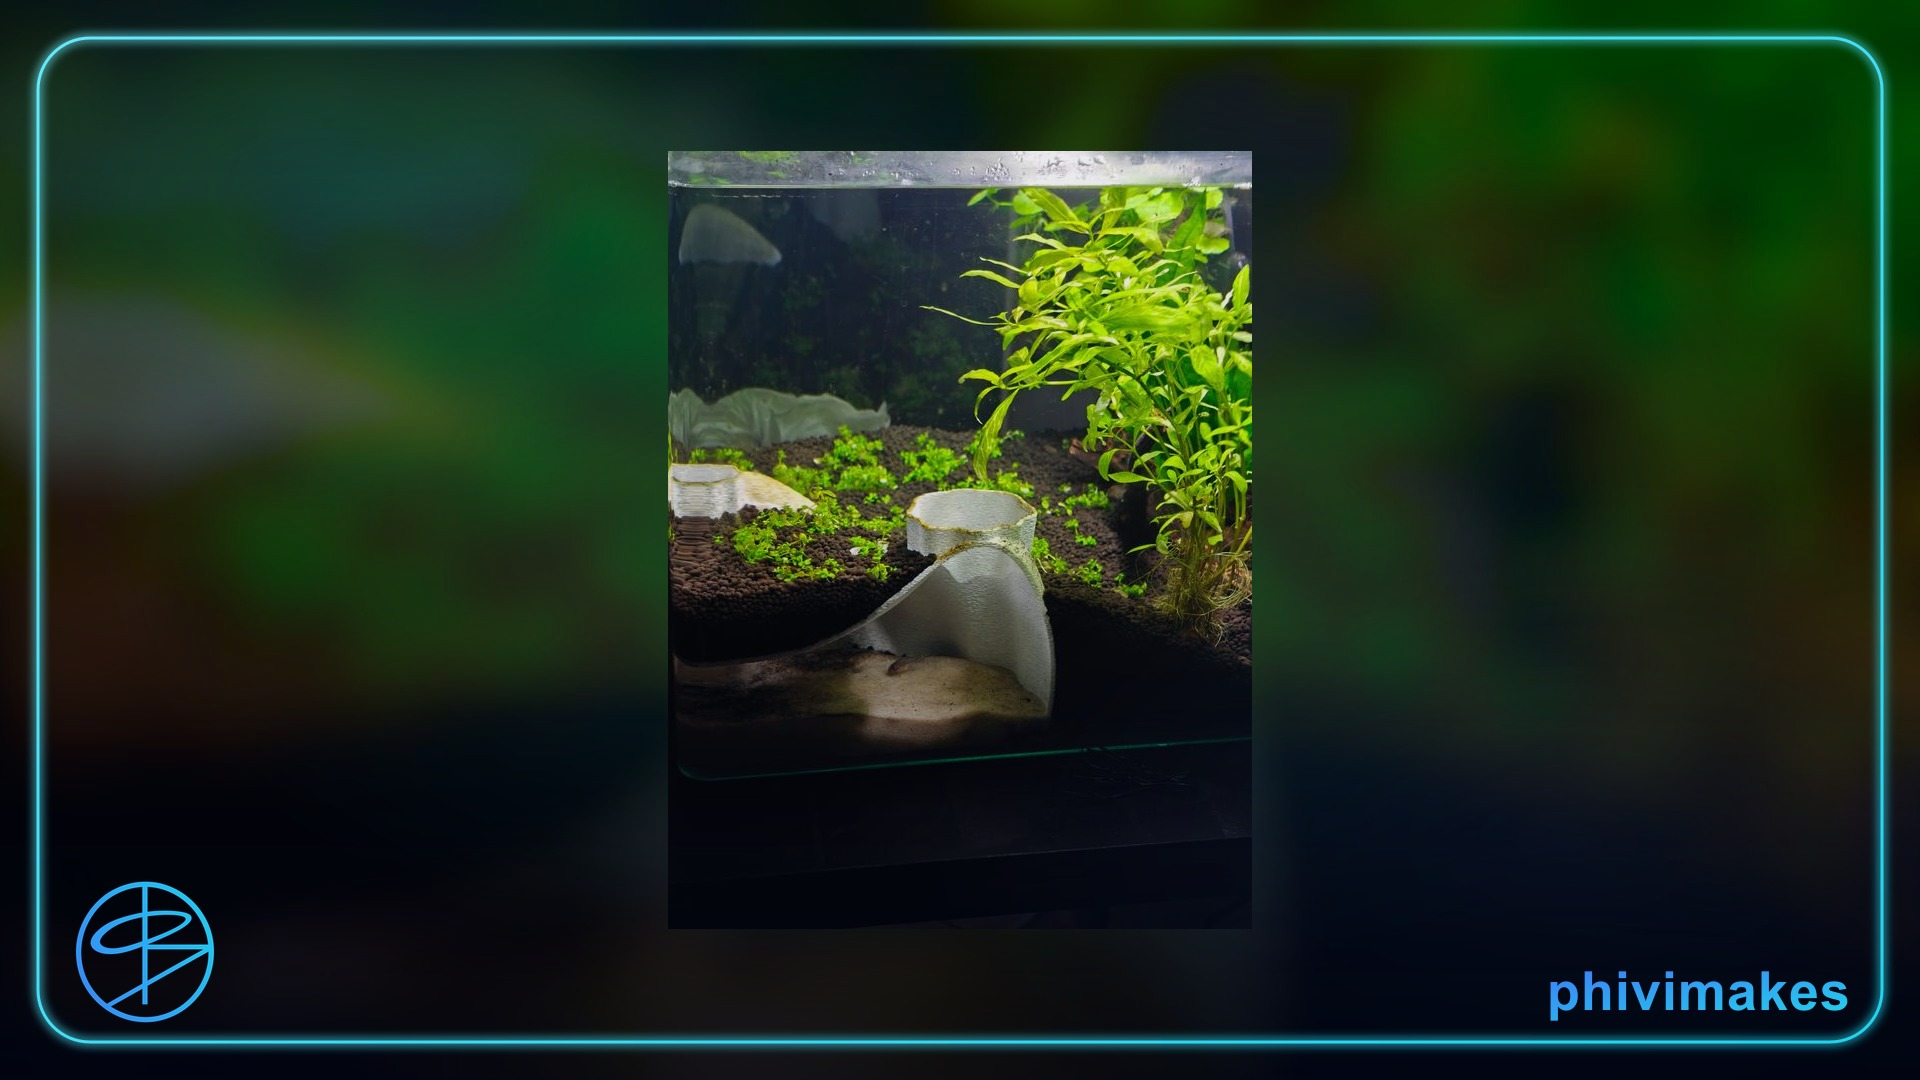
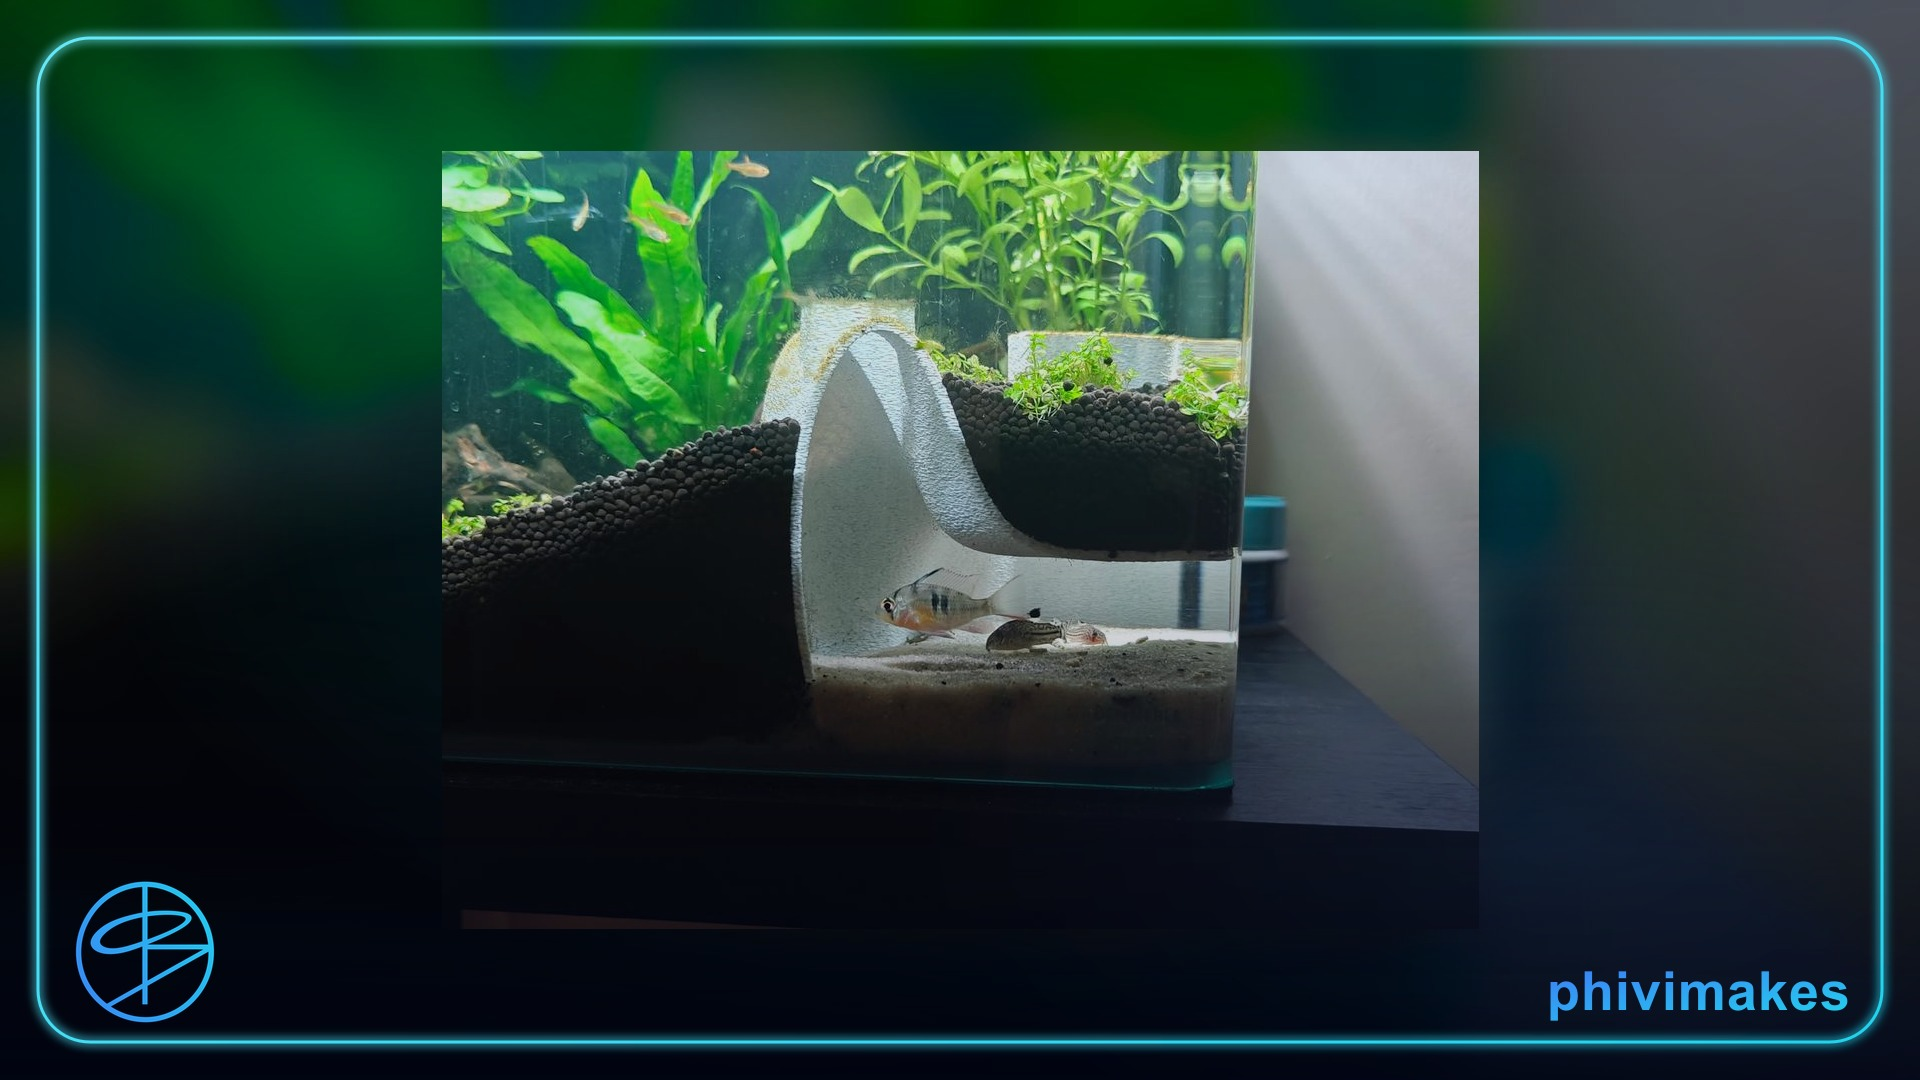
Kalimera212

diff --git a/app/projects/page.tsx b/app/projects/page.tsx
@@ -10,6 +10,7 @@ const text = {
     subtitle:
       "Browse all categories and explore functional builds, prototypes and custom designs.",
     showAll: "Show All Projects →",
+    openCategory: "Open category →",
   },
 
   el: {
@@ -17,39 +18,73 @@ const text = {
     subtitle:
       "Δες όλες τις κατηγορίες και εξερεύνησε custom κατασκευές, prototypes και λειτουργικά designs.",
     showAll: "Όλα τα Projects →",
+    openCategory: "Άνοιγμα κατηγορίας →",
   },
 };
 
-const categories = [
-  {
-    title: "Aquarium",
-    description: "Functional 3D printed parts for aquarium setups.",
-    href: "/projects/aquarium",
-  },
+const categories = {
+  en: [
+    {
+      title: "Aquarium",
+      description: "Functional 3D printed parts for aquarium setups.",
+      href: "/projects/aquarium",
+    },
 
-  {
-    title: "Automation Gadgets",
-    description: "Useful automation ideas and smart mechanisms.",
-    href: "/projects/automation-gadgets",
-  },
+    {
+      title: "Automation Gadgets",
+      description: "Useful automation ideas and smart mechanisms.",
+      href: "/projects/automation-gadgets",
+    },
 
-  {
-    title: "Mini Cooper",
-    description: "Custom parts, accessories and upgrades.",
-    href: "/projects/mini-cooper",
-  },
+    {
+      title: "Mini Cooper",
+      description: "Custom parts, accessories and upgrades.",
+      href: "/projects/mini-cooper",
+    },
 
-  {
-    title: "Traditional Shaving",
-    description: "Stands, holders and shaving accessories.",
-    href: "/projects/traditional-shaving",
-  },
-];
+    {
+      title: "Traditional Shaving",
+      description: "Stands, holders and shaving accessories.",
+      href: "/projects/traditional-shaving",
+    },
+  ],
+
+  el: [
+    {
+      title: "Ενυδρείο",
+      description:
+        "Λειτουργικά 3D printed εξαρτήματα για ενυδρεία και custom setups.",
+      href: "/projects/aquarium",
+    },
+
+    {
+      title: "Αυτοματισμοί",
+      description:
+        "Χρήσιμες ιδέες αυτοματισμού, έξυπνοι μηχανισμοί και πρακτικές λύσεις.",
+      href: "/projects/automation-gadgets",
+    },
+
+    {
+      title: "Μίνι Κούπερ",
+      description:
+        "Custom parts, αξεσουάρ και μικρές αναβαθμίσεις για Mini Cooper.",
+      href: "/projects/mini-cooper",
+    },
+
+    {
+      title: "Παραδοσιακό Ξύρισμα",
+      description:
+        "Βάσεις, holders και αξεσουάρ για εξοπλισμό παραδοσιακού ξυρίσματος.",
+      href: "/projects/traditional-shaving",
+    },
+  ],
+};
 
 export default function ProjectsPage() {
   const { lang } = useLanguage();
 
   const t = text[lang];
+  const currentCategories = categories[lang];
 
   return (
     <main className="relative min-h-screen overflow-hidden bg-[#020617] text-white">
@@ -81,7 +116,7 @@ export default function ProjectsPage() {
           </div>
 
           <div className="mt-12 grid gap-6 md:grid-cols-2">
-            {categories.map((category) => (
+            {currentCategories.map((category) => (
               <Link
                 key={category.href}
                 href={category.href}
@@ -96,7 +131,7 @@ export default function ProjectsPage() {
                 </p>
 
                 <p className="mt-8 font-bold text-cyan-300">
-                  Open category →
+                  {t.openCategory}
                 </p>
               </Link>
             ))}

diff --git a/app/projects/all/page.tsx b/app/projects/all/page.tsx
@@ -12,12 +12,29 @@ const text = {
     openProject: "Open project →",
     back: "← Back to projects",
   },
+
   el: {
     title: "ΟΛΑ ΤΑ PROJECTS",
     subtitle:
       "Όλα τα projects από κάθε κατηγορία, ταξινομημένα από το νεότερο στο παλαιότερο.",
     openProject: "Άνοιγμα project →",
-    back: "← Πίσω στα έργα",
+    back: "← Πίσω στα projects",
+  },
+};
+
+const typeText = {
+  en: {
+    Aquarium: "Aquarium",
+    "Automation Gadgets": "Automation Gadgets",
+    "Mini Cooper": "Mini Cooper",
+    "Traditional Shaving": "Traditional Shaving",
+  },
+
+  el: {
+    Aquarium: "Ενυδρείο",
+    "Automation Gadgets": "Automation Gadgets",
+    "Mini Cooper": "Mini Cooper",
+    "Traditional Shaving": "Παραδοσιακό Ξύρισμα",
   },
 };
 
@@ -62,13 +79,14 @@ export default function AllProjectsPage() {
                 <div className="mb-8 overflow-hidden rounded-3xl border border-cyan-300/20 bg-gradient-to-br from-cyan-300/20 via-blue-500/10 to-violet-500/20">
                   <img
                     src={project.coverImage}
-                    alt={project.title}
+                    alt={lang === "el" ? project.title : project.titleEn}
                     className="aspect-video w-full object-cover transition duration-500 group-hover:scale-105"
                   />
                 </div>
 
                 <p className="text-sm font-semibold text-cyan-300">
-                  {project.type}
+                  {typeText[lang][project.type as keyof typeof typeText.en] ??
+                    project.type}
                 </p>
 
                 <h2 className="mt-3 text-2xl font-black text-cyan-100">
@@ -76,7 +94,9 @@ export default function AllProjectsPage() {
                 </h2>
 
                 <p className="mt-4 line-clamp-2 text-slate-300">
-                  {project.shortDescription}
+                  {lang === "el"
+                    ? project.shortDescription
+                    : project.shortDescriptionEn}
                 </p>
 
                 <p className="mt-6 font-bold text-cyan-300 group-hover:text-cyan-200">

diff --git a/app/about/page.tsx b/app/about/page.tsx
@@ -8,7 +8,7 @@ const text = {
     title: "ABOUT",
     subtitle: "From problem to object.",
     intro:
-      "PhiVi Makes started as a place to collect practical objects and designs I created for my own everyday use.",
+      "Phivimakes started as a place to collect practical objects and designs I created for my own everyday use.",
     processTitle: "The process",
     processText:
       "Each project begins from a real need, then becomes a model, prototype, print and finished object.",
@@ -16,14 +16,14 @@ const text = {
     goalText:
       "The goal is to make useful designs accessible to others who may need the same solution.",
     mainText:
-      "I design and build everyday objects, custom parts, prototypes and functional solutions mainly through 3D printing. Some projects are small improvements, others are complete custom builds, but all of them start from the same idea: making something useful, personal and easy to access.",
+      "I design and build everyday objects, custom parts, prototypes and functional solutions mainly through 3D printing. Some projects are small improvements, others are complete custom builds, but they all start from the same idea: creating something useful and personal.",
   },
 
   el: {
     title: "ΣΧΕΤΙΚΑ",
     subtitle: "Από την ανάγκη στο αντικείμενο.",
     intro:
-      "Το PhiVi Makes ξεκίνησε ως ένας χώρος όπου συγκεντρώνω πρακτικά αντικείμενα και σχέδια που δημιούργησα για τη δική μου καθημερινότητα.",
+      "Το phivimakes ξεκίνησε ως ένας χώρος όπου συγκεντρώνω πρακτικά αντικείμενα και σχέδια που δημιούργησα για τη δική μου καθημερινότητα.",
     processTitle: "Η διαδικασία",
     processText:
       "Κάθε project ξεκινά από μια πραγματική ανάγκη και στη συνέχεια γίνεται σχέδιο, prototype, εκτύπωση και τελικό αντικείμενο.",
@@ -31,7 +31,7 @@ const text = {
     goalText:
       "Ο στόχος είναι χρήσιμα σχέδια και λύσεις να γίνουν προσβάσιμα και σε άλλους ανθρώπους.",
     mainText:
-      "Σχεδιάζω και κατασκευάζω αντικείμενα καθημερινής χρήσης, custom parts, prototypes και λειτουργικές λύσεις κυρίως μέσω 3D printing. Κάποια projects είναι μικρές βελτιώσεις, άλλα είναι ολοκληρωμένες custom κατασκευές, αλλά όλα ξεκινούν από την ίδια ιδέα: να δημιουργηθεί κάτι χρήσιμο, προσωπικό και εύκολα προσβάσιμο.",
+      "Σχεδιάζω και κατασκευάζω αντικείμενα καθημερινής χρήσης, custom parts, prototypes και λειτουργικές λύσεις κυρίως μέσω 3D printing. Κάποια projects είναι μικρές βελτιώσεις, άλλα είναι ολοκληρωμένες custom κατασκευές, αλλά όλα ξεκινούν από την ίδια ιδέα: να δημιουργηθεί κάτι χρήσιμο και προσωπικό.",
   },
 };
 

diff --git a/app/page.tsx b/app/page.tsx
@@ -16,13 +16,13 @@ const text = {
     contactMe: "Επικοινωνία",
     latestProjects: "Πρόσφατα έργα",
     projectSubtitle:
-      "Τα τρία πιο πρόσφατα projects από custom κατασκευές, prototypes και 3D printed λύσεις.",
+      "Τα τρία πιο πρόσφατα projects.",
     more: "Περισσότερα →",
     contactTitle: "Έχεις μια ιδέα;",
     contactText: "Στείλε μου μήνυμα για custom project, prototype ή συνεργασία.",
     socialsTitle: "Ακολούθησέ με",
     socialsText:
-      "Βρες το PhiVi Makes σε Instagram και TikTok για νέα builds, prototypes και behind the scenes.",
+      "Βρες το phivimakes σε Instagram και TikTok για νέα builds, prototypes και behind the scenes.",
   },
   en: {
     projects: "PROJECTS",
@@ -34,13 +34,13 @@ const text = {
     contactMe: "Contact",
     latestProjects: "Latest Projects",
     projectSubtitle:
-      "The three latest custom builds, prototypes and 3D printed solutions.",
+      "The three latest custom builds.",
     more: "More →",
     contactTitle: "Have an idea?",
     contactText: "Send me a message for a custom project, prototype or collaboration.",
     socialsTitle: "Follow me",
     socialsText:
-      "Find PhiVi Makes on Instagram and TikTok for new builds, prototypes and behind the scenes.",
+      "Find phivimakes on Instagram and TikTok for new builds, prototypes and behind the scenes.",
   },
 };
 

diff --git a/data/projects/aquarium/lagoumi.ts b/data/projects/aquarium/lagoumi.ts
@@ -9,10 +9,10 @@ export const lagoumiProject: Project = {
   href: "/projects/aquarium/lagoumi",
   date: "2026-05-25",
 
-  shortDescription:
+  shortDescriptionEn:
     "Custom aquarium cave for fish shelter and aquascaping.",
 
-  description:
+  shortDescription:
     "Το Λαγούμι είναι μια 3D printed κατασκευή για ενυδρείο, σχεδιασμένη ώστε να προσφέρει κρυψώνα στα ψάρια και να ενσωματώνεται όμορφα στο aquascape.",
 
   coverImage: "/projects/aquarium/lagoumi/cover-generated.jpg",

diff --git a/data/projects.ts b/data/projects.ts
@@ -15,6 +15,7 @@ export type Project = {
   href: string;
   date: string;
   shortDescription: string;
+  shortDescriptionEn: string;
   description: string;
   coverImage: string;
   images: string[];